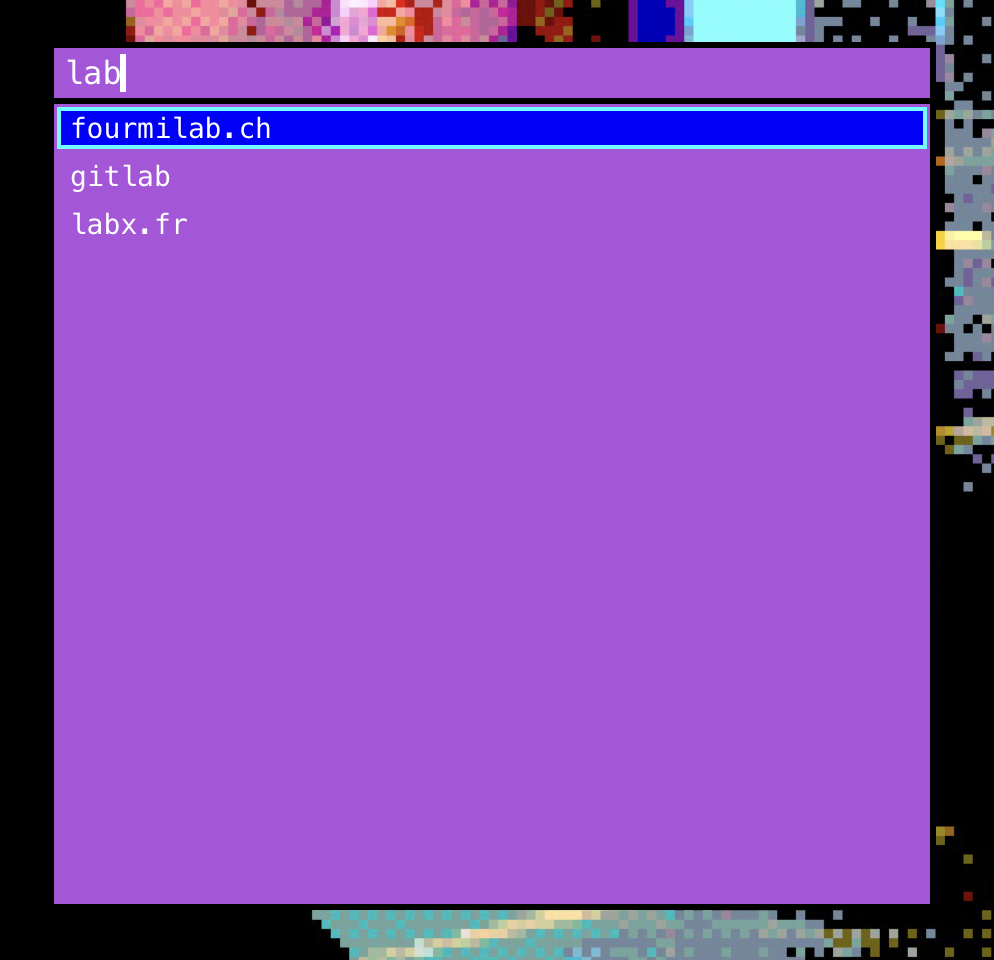
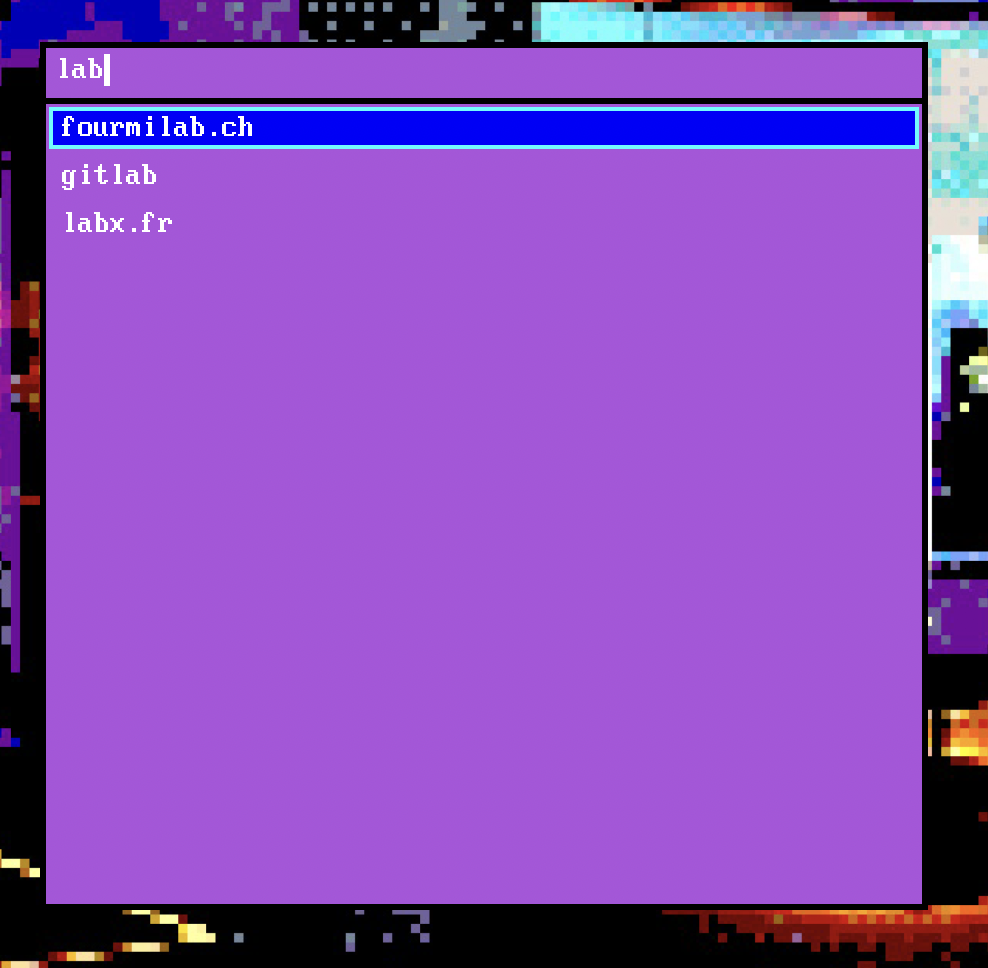
README: New screenshot.

Changed region(s): [[0.0, 0.0, 1.0, 1.0], [0.9109, 0.7188, 1.0, 0.8125], [0.9413, 0.8438, 0.9717, 0.875]]

diff --git a/README.md b/README.md
@@ -19,7 +19,7 @@ I think i need to go away and take a few consecutive showers.
 
 Here's a screenshot:
 
-<img src="/img/screenshot.png" alt="A screenshot of the SwiftMenu window" />
+<img src="/img/screenshot.png" alt="A screenshot of the SwiftMenu window" width="484" />
 
 ## Some rough edges
 
